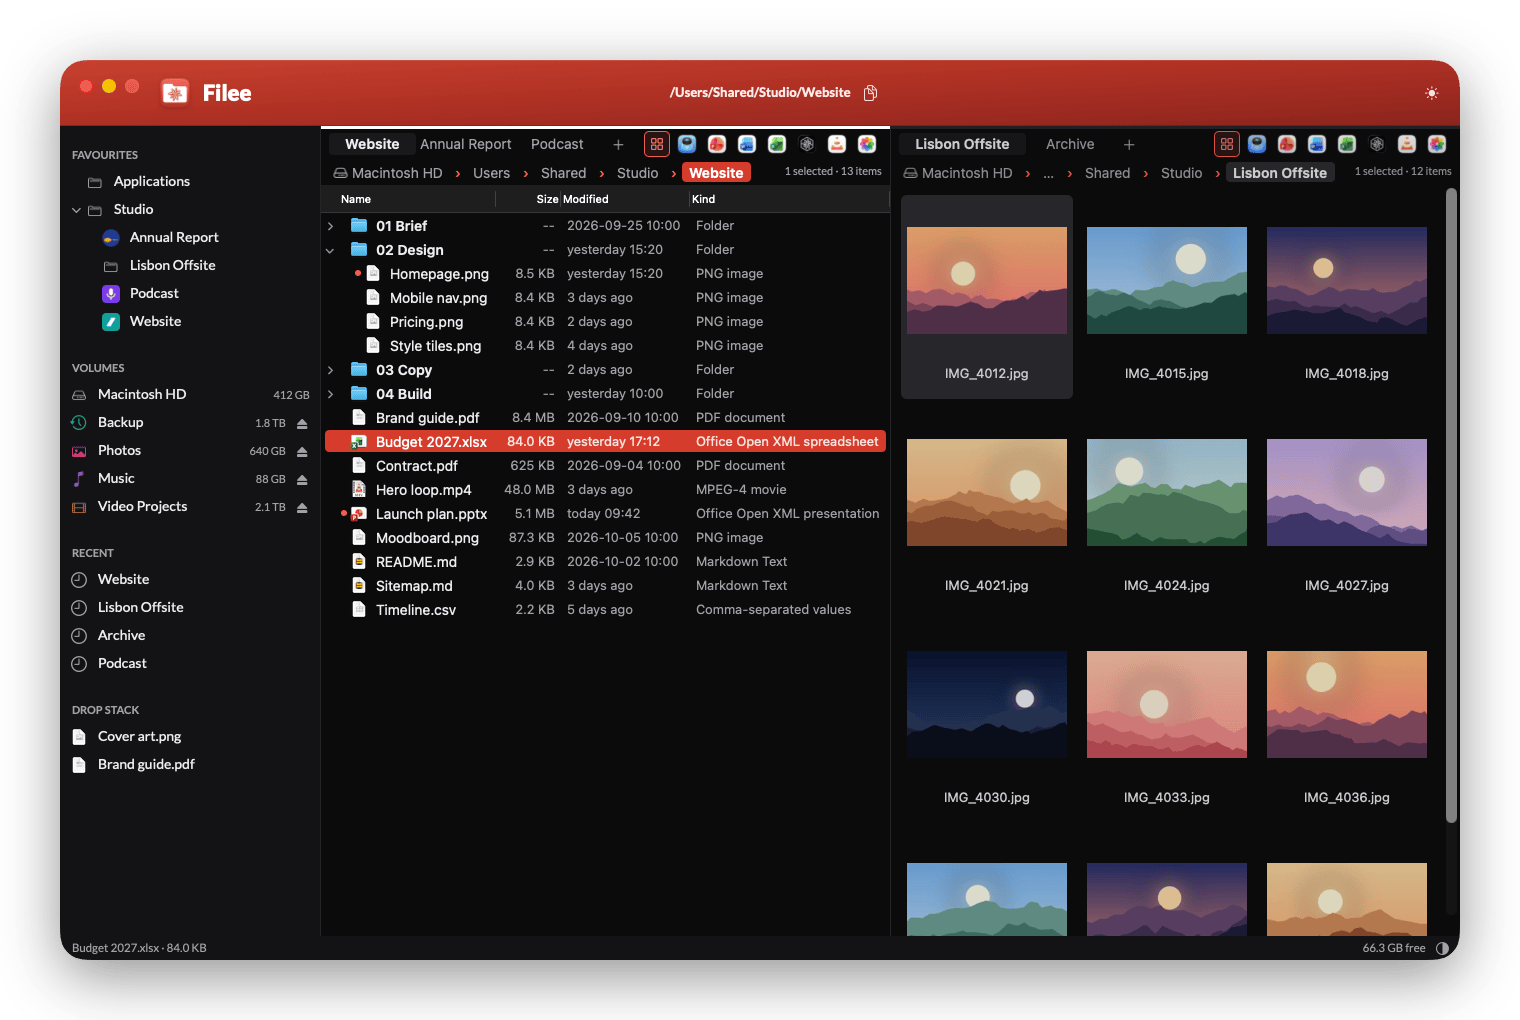
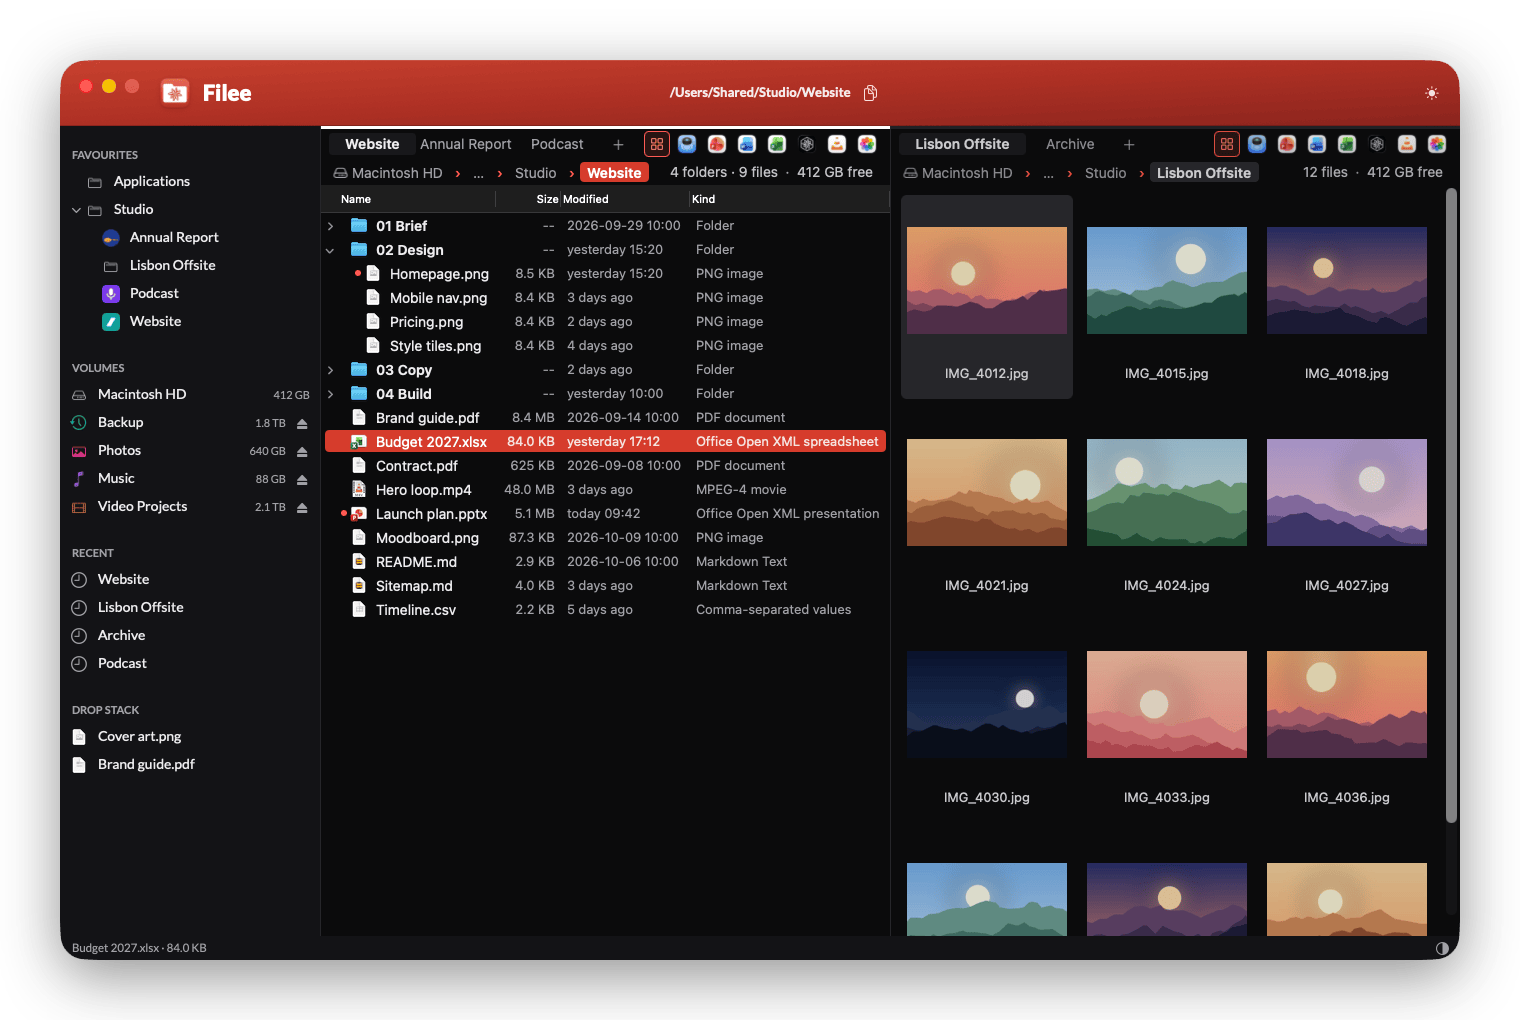
Each pane shows its folders, files and free space under its tabs
In the file list's font and size, right of the path: "16 folders · 63 files
· 9.7 TB free". Free space loads off the main thread per pane. The selection
stays in the status bar, which no longer shows free space.

Changed region(s): [[0.3092, 0.152, 0.5875, 0.1824], [0.7112, 0.152, 0.9586, 0.1824], [0.8967, 0.9118, 0.9276, 0.9422]]

diff --git a/FileeMac/Sources/Pane.swift b/FileeMac/Sources/Pane.swift
@@ -103,7 +103,14 @@ final class PaneController: NSObject, FileViewDelegate, NSTextFieldDelegate {
     let pathField = PathField()
     /// The path as clickable folders; the path field replaces it while a path is typed.
     let crumbs = PathCrumbs()
-    let countLabel = label("", size: 11, color: Theme.muted)
+    /// Under the tabs, right of the path: what the folder holds and the free space on its volume, in the file list's size.
+    let countLabel = label("", size: 11, color: Theme.fg2)
+    /// Folders and files in the listing, counted when it changes (not at each selection change).
+    private var contents = (folders: 0, files: 0)
+    private var freeText = ""
+    private var freeAsk = 0
+    /// Set by the README screenshots (QA demoVolumes): the free space every pane shows.
+    static var demoFreeSpace: String?
     // Type-to-filter shows what you type at the top of the pane: the query, a blinking caret, the count.
     let filterBar = ColorView(Theme.accentSoft)
     private let filterStripe = ColorView(Theme.accent)
@@ -193,11 +200,12 @@ final class PaneController: NSObject, FileViewDelegate, NSTextFieldDelegate {
         let typeW = typeBar.isHidden ? 0 : typeBar.width + 10
         typeBar.frame = NSRect(x: b.width - typeW, y: accentH, width: typeBar.width, height: tabH)
         tabStrip.frame = NSRect(x: 0, y: accentH, width: b.width - typeW, height: tabH)
-        let countW = min(160, textWidth(countLabel.stringValue, font: countLabel.font!) + 12)
+        let countW = min((b.width * 0.5).rounded(), ceil(countLabel.attributedStringValue.size().width) + 12)
+        let countH = ceil(Theme.listSize * 1.3)
         let fieldH = (Theme.listSize * 1.35).rounded()
         pathField.frame = NSRect(x: 10, y: accentH + tabH + ((pathH - fieldH) / 2).rounded(), width: b.width - countW - 20, height: fieldH)
         crumbs.frame = NSRect(x: 5, y: accentH + tabH + 2, width: b.width - countW - 15, height: pathH - 4)
-        countLabel.frame = NSRect(x: b.width - countW - 6, y: accentH + tabH + ((pathH - 16) / 2).rounded(), width: countW, height: 16)
+        countLabel.frame = NSRect(x: b.width - countW - 6, y: accentH + tabH + ((pathH - countH) / 2).rounded(), width: countW, height: countH)
         countLabel.alignment = .right
         let top = accentH + tabH + pathH
         let filterH: CGFloat = filterBar.isHidden ? 0 : 34
@@ -233,14 +241,48 @@ final class PaneController: NSObject, FileViewDelegate, NSTextFieldDelegate {
         crumbs.show(path: path, active: isActivePane)
     }
 
+    private func countContents() {
+        let folders = folderModel.visible.reduce(0) { $0 + ($1.isFolder ? 1 : 0) }
+        contents = (folders, folderModel.visible.count - folders)
+    }
+
     private func updateCount() {
         let m = folderModel
-        let selected = fileView?.selectedItems.count ?? 0
-        var text = m.query.isEmpty ? Format.items(m.unfilteredCount) : "\(m.visible.count) of \(m.unfilteredCount)"
-        if selected > 0 { text = "\(selected) selected · " + text }
-        if m.types != .all { text = "\(m.types.title) · " + text }
-        countLabel.stringValue = text
+        // The selection is in the status bar: this line leaves the path its room.
+        var parts: [String] = []
+        if m.types != .all { parts.append(m.types.title) }
+        if !m.query.isEmpty {
+            parts.append("\(m.visible.count) of \(m.unfilteredCount)")
+        } else if contents.folders + contents.files == 0 {
+            parts.append("0 items")
+        } else {
+            if contents.folders > 0 { parts.append(contents.folders == 1 ? "1 folder" : "\(contents.folders.formatted()) folders") }
+            if contents.files > 0 { parts.append(contents.files == 1 ? "1 file" : "\(contents.files.formatted()) files") }
+        }
+        let font = Theme.listFont()
+        let text = NSMutableAttributedString(string: parts.joined(separator: " · "), attributes: [.font: font, .foregroundColor: Theme.fg2])
+        if !freeText.isEmpty {
+            text.append(NSAttributedString(string: "  ·  ", attributes: [.font: font, .foregroundColor: Theme.muted]))
+            text.append(NSAttributedString(string: freeText, attributes: [.font: font, .foregroundColor: Theme.fg2]))
+        }
+        countLabel.attributedStringValue = text
         layout()
+    }
+
+    /// Free space on the folder's volume: slow on network shares (10 to 150 ms), so off the main thread.
+    private func updateFreeSpace() {
+        freeAsk += 1
+        let ask = freeAsk, url = URL(fileURLWithPath: path)
+        DispatchQueue.global(qos: .utility).async { [weak self] in
+            let free = url.volumeFreeSpace
+            DispatchQueue.main.async {
+                guard let self, ask == self.freeAsk else { return }
+                let text = Self.demoFreeSpace.map { "\($0) free" } ?? free.map { "\(Format.size($0)) free" } ?? ""
+                guard text != self.freeText else { return }
+                self.freeText = text
+                self.updateCount()
+            }
+        }
     }
 
     /// Shows only 1 family of files in this tab (folders stay), or everything again.
@@ -321,7 +363,9 @@ final class PaneController: NSObject, FileViewDelegate, NSTextFieldDelegate {
         model.startWatching()
         updatePathLabel()
         tabStrip.titles = tabs.map { $0.folder.name }
+        countContents()
         updateCount()
+        updateFreeSpace()
     }
 
     private var pendingSelection: [String] = []
@@ -349,7 +393,9 @@ final class PaneController: NSObject, FileViewDelegate, NSTextFieldDelegate {
             messageLabel.isHidden = true
         }
         updateFilterBar()
+        countContents()
         updateCount()
+        if reloaded { updateFreeSpace() }
         window.paneContentChanged(self)
         Profile.mark("pane rest", t)
     }
@@ -506,7 +552,7 @@ final class PaneController: NSObject, FileViewDelegate, NSTextFieldDelegate {
         // The tab names, the path and the type filter follow the file list's size.
         tabStrip.active = tabStrip.active
         typeBar.styleChanged()
-        layout()
+        updateCount()
     }
 
     var selectedItems: [FileItem] { fileView.selectedItems }
@@ -686,7 +732,6 @@ final class PaneController: NSObject, FileViewDelegate, NSTextFieldDelegate {
     func fileView(open item: FileItem) { open(item) }
 
     func fileViewSelectionChanged() {
-        updateCount()
         window.selectionChanged(in: self)
     }
 

diff --git a/FileeMac/Sources/BrowserWindow.swift b/FileeMac/Sources/BrowserWindow.swift
@@ -18,19 +18,17 @@ final class RootView: FlippedView {
     }
 }
 
-/// The status bar: selection and free space. Messages are in Toast, copy and move progress in TransferPanel.
+/// The status bar: the selection. Each pane shows its free space under its tabs. Messages are in Toast, copy and move progress in TransferPanel.
 final class StatusBar: FlippedView {
     let left = label("", size: 11.5, color: Theme.muted)
-    let right = label("", size: 11.5, color: Theme.muted)
     let themeButton = iconButton("circle.lefthalf.filled", tip: "Switch light or dark theme (⌃⌘L)", target: nil, action: #selector(BrowserWindowController.toggleThemeClicked(_:)))
 
     override init(frame: NSRect) {
         super.init(frame: frame)
         wantsLayer = true
         layer?.backgroundColor = Theme.surface.cgColor
-        right.alignment = .right
         left.lineBreakMode = .byTruncatingTail
-        for v in [left, right, themeButton] { addSubview(v) }
+        for v in [left, themeButton] { addSubview(v) }
     }
 
     required init?(coder: NSCoder) { fatalError() }
@@ -42,9 +40,8 @@ final class StatusBar: FlippedView {
     override func layout() {
         super.layout()
         let w = bounds.width, h = bounds.height
-        left.frame = NSRect(x: 10, y: (h - 15) / 2, width: w * 0.6, height: 15)
+        left.frame = NSRect(x: 10, y: (h - 15) / 2, width: w - 46, height: 15)
         themeButton.frame = NSRect(x: w - 26, y: (h - 16) / 2, width: 16, height: 16)
-        right.frame = NSRect(x: w * 0.72 - 10, y: (h - 15) / 2, width: w * 0.28 - 22, height: 15)
     }
 }
 
@@ -239,16 +236,6 @@ final class BrowserWindowController: NSWindowController, NSWindowDelegate {
         titleBar.path.stringValue = activePane.folderModel.displayPath
         titleBar.needsLayout = true
         window?.representedURL = URL(fileURLWithPath: activePane.path)
-        updateFreeSpace()
-    }
-
-    /// Free space is slow to ask for (10 ms or more): off the main thread.
-    private func updateFreeSpace() {
-        let url = URL(fileURLWithPath: activePane.path)
-        DispatchQueue.global(qos: .utility).async { [weak self] in
-            let free = url.volumeFreeSpace
-            DispatchQueue.main.async { self?.statusBar.right.stringValue = free.map { "\(Format.size($0)) free" } ?? "" }
-        }
     }
 
     func selectionChanged(in pane: PaneController) {

diff --git a/FileeMac/Sources/QAHarness.swift b/FileeMac/Sources/QAHarness.swift
@@ -303,6 +303,9 @@ final class QAHarness {
                         info: SidebarController.VolumeInfo(name: name, free: v["free"] as? String ?? "", isLocal: v["local"] as? Bool ?? true,
                                                  isInternal: v["internal"] as? Bool ?? false))
             }
+            // The panes show the startup volume's made-up free space, not this Mac's.
+            PaneController.demoFreeSpace = list.first { $0["path"] as? String == "/" }?["free"] as? String
+            for p in wc.panes { p.reload() }
             record(step)
             done()
 
@@ -441,7 +444,7 @@ final class QAHarness {
         }
         return ["widths": widths, "path": p.path, "selected": names(p.selectedItems), "visible": p.folderModel.visible.count,
                 "query": p.folderModel.query, "view": p.tab.view.rawValue, "activePane": wc.activePaneIndex,
-                "dual": wc.dualPane, "tabs": p.tabs.count, "status": wc.toast.text,
+                "dual": wc.dualPane, "tabs": p.tabs.count, "count": p.countLabel.stringValue, "status": wc.toast.text,
                 "favourites": wc.sidebar.favouritesOutline]
     }
 
@@ -504,6 +507,7 @@ final class QAHarness {
             ok = ok && (fits || tight)
         }
         if let s = step["statusContains"] as? String { ok = ok && wc.toast.text.contains(s) }
+        if let s = step["countContains"] as? [String] { ok = ok && s.allSatisfy { p.countLabel.stringValue.contains($0) } }
         if let s = step["stack"] as? Int { ok = ok && AppDelegate.shared.state.dropStack.count == s }
         if let n = step["transferRows"] as? Int { ok = ok && wc.transfers.rows.count == n && (n == 0 || wc.transfers.frame.height > 50) }
         if step["ejectButtons"] as? Bool == true {

diff --git a/qa.py b/qa.py
@@ -137,6 +137,9 @@ def suites(fx: dict) -> dict:
             {"op": "key", "keys": "cmd+h"},
             {"op": "expect", "label": "cmd+h goes to the home folder", "path": "~"},
             {"op": "navigate", "pane": 0, "path": A},
+            {"op": "wait", "ms": 300},
+            {"op": "expect", "label": "under the tabs: the folder's folders and files, and the volume's free space",
+             "countContains": ["1 folder · 7 files", " free"]},
             {"op": "expect", "label": "a folder with a .filee-icon.svg shows that image", "customIcon": branded},
             {"op": "expect", "label": "name column fits the longest name", "nameFits": True},
             {"op": "screenshot", "name": "01-list"},

diff --git a/SPEC.md b/SPEC.md
@@ -108,8 +108,9 @@ Switch-over (decision 42): Filee runs next to Path Finder. Path Finder is cancel
 - Each pane has its own tabs, path bar, view and history.
 - **Active pane** (decision 11): a 3 px red accent bar across the top of the active pane, and its path in bold. The inactive pane is dimmed to 85%. Tab switches the active pane.
 - **Path bar** (decision 13): the folder path as clickable folders, from the home folder down (outside home: from the volume or Macintosh HD). It uses the file list's font and size, as the tab names do, and grows with ⌘+. The current folder is highlighted like a selected row (red in the active pane, grey in the other) and red arrows separate the folders. A click on a folder goes there and selects the folder you came from. A drop on a folder moves or copies into it (Finder's rules: move on the same volume, copy across volumes, ⌥ copies). Folders that don't fit fold into `…`, a menu. 1 view draws the whole path: no disk access, a new layout only when the path or the width changes (under 1 ms). A click on the current folder or the free space after it, ⌘L or ⌃G makes it editable with all of it selected, ready for a paste, with Tab completion. Enter goes there; a file path goes to its folder and selects the file. A pasted path can carry quotes, `file://` or shell escapes. The copy button right of the folder in the title bar copies the active pane's full path (from `/`).
-- **File-type filter**: right of each pane's tabs, All, then 1 button per family: PDF, PowerPoint, Word, Excel (with CSV), Markdown, video, images. Each button shows the icon of the app that opens the family on this Mac (Word, Excel, Notee); when 2 families share an app (PDF and images in Preview), the later one takes an installed fallback (Photos), so no 2 buttons look the same. A click shows only that family in the active tab, a 2nd click (or All) shows everything again. Folders always show. The filter stays with the tab from folder to folder, applies to every view and to expanded folders in the list, and shows in the item count ("PDF · 3 items"). New tabs and launches start with All. Also in **View** and ⌘K ("Show Only PDF Files"). Hidden in a pane narrower than 420 px.
-- **Status bar**: selection count and size, free space on the volume.
+- **File-type filter**: right of each pane's tabs, All, then 1 button per family: PDF, PowerPoint, Word, Excel (with CSV), Markdown, video, images. Each button shows the icon of the app that opens the family on this Mac (Word, Excel, Notee); when 2 families share an app (PDF and images in Preview), the later one takes an installed fallback (Photos), so no 2 buttons look the same. A click shows only that family in the active tab, a 2nd click (or All) shows everything again. Folders always show. The filter stays with the tab from folder to folder, applies to every view and to expanded folders in the list, and shows in the pane's count ("PDF · 2 folders · 3 files"). New tabs and launches start with All. Also in **View** and ⌘K ("Show Only PDF Files"). Hidden in a pane narrower than 420 px.
+- **Pane count** (Nic, 18th October 2026): right of the path, under each pane's tabs, in the file list's font and size: the folders and files in the listing, then the free space on the folder's volume ("16 folders · 63 files · 9.7 TB free"). While a filter runs: "5 of 79". The free space loads off the main thread at each folder change and disk change. The selection stays out of it, so the path keeps its room.
+- **Status bar**: the selection (name, or count) and its size.
 - **Messages** (copied path, moved to Trash, errors): a pill at the bottom centre of the window, in large type with inverted colours (black in light mode, white in dark mode, red for errors). A copied path shows in full on a second line. It goes after 2.5 s, errors after 6 s.
 - **Copy and move progress**: a panel above the status bar, 1 row per running copy or move: item `n of m` and its name, a red progress bar, bytes done of total, speed, time left, and a cancel button. The finished row turns green at 100% and goes after 2 s (5 s for an error).
 - **Look** (decision 14): NicAI Design. Black, white, red accent, Lato for the interface. Light and dark follow macOS until you switch: ⌃⌘L, the moon or sun button at the right of the title bar, the half-circle button at the right of the status bar, or **View > Switch Light or Dark Theme** pins the other theme; **View > Use System Theme** follows macOS again. The choice is kept in `state.json`. The bar over the active pane is red in light and white in dark.
@@ -276,7 +277,7 @@ Sidebar sections (decision 12):
   - A chevron folds and unfolds a favourite. The folded ones are kept in `state.json`.
   - A folder with a `.filee-icon.svg` or `.filee-icon.png` inside shows that image: the icon syncs with the folder (Dropbox, git). A folder named Dropbox shows the Dropbox logo (the app's icon). Another folder with its own Finder icon (a shared Dropbox folder) shows that icon. A grey branch keeps a logo in full colour. Folders under `/Volumes` keep the plain icon: network shares can be slow.
 - **Keyboard**: ⌥⌘F moves the keyboard to Favourites, ⇧⌥⌘F to Volumes (both in ⌘K and the Go menu). The row of the current folder is selected, else the first row. ↑↓ move, ←→ fold and unfold, ↩ opens the row in the active pane and gives the keyboard back, Esc or Tab goes back without opening.
-- **Volumes**: every mounted volume, with free space (none for network shares, which report 0) and an eject button on everything under `/Volumes`. ⌘E ejects the selected volume.
+- **Volumes**: every mounted volume, with free space (network shares report 0 for the usual value: Filee reads their plain free space) and an eject button on everything under `/Volumes`. ⌘E ejects the selected volume.
   - Each volume has its own icon: a word in its name picks the symbol (vid: film, mus: music note, scan, doc, backup, photo, personal), else its kind (network share, external, internal). Each gets its own colour, the same from launch to launch. `volumeIcons` in `settings.json` sets a symbol or an image file by volume name: `{"Omarchy": "terminal", "Sony": "~/.filee/icons/sony.png"}`. An image file also applies to every volume whose name contains the key ("Sony" matches "SONY ICD").
 - **Recent**: the last 10 folders visited.
 - **Drop stack**: a holding list. ⌃⌘D adds the selection. Drag items out, or use the palette: "Copy stack here", "Move stack here", "Clear stack". The stack survives a restart.

diff --git a/README.md b/README.md
@@ -57,6 +57,7 @@ This is personal software. It does what I need on my Mac. I don't offer support,
   - A list that expands folders in place as a tree (→ and ←, or ⌥⌘→ to expand every folder 1 level per press).
   - Miller columns, each column as wide as its content.
   - Thumbnails from 64 to 384 px. A folder that holds mostly images opens as thumbnails on the first visit.
+- **Folders, files and free space under each pane's tabs,** in the file list's size: "16 folders · 63 files · 9.7 TB free".
 - **Columns that fit their content** every time a folder loads. Name, size, modified and kind show by default. Date added, created, extension and item count are a right-click away.
 - **Readable dates:** "today 14:05", "yesterday", "3 days ago", then `2026-10-08 14:05`.
 - **New today:** a red dot marks every file added to its folder today. The dots reset at midnight.
@@ -76,7 +77,7 @@ This is personal software. It does what I need on my Mac. I don't offer support,
 <p align="center">
 <picture>
   <source media="(prefers-color-scheme: dark)" srcset="assets/screenshots/type-filter-zoom-dark.png">
-  <img src="assets/screenshots/type-filter-zoom-light.png" width="460" alt="Close-up of the file-type filter: the All button, then 1 button per file type with the icon of its app (Preview for PDF, PowerPoint, Word, Excel, a Markdown editor, VLC for video, Photos for images). PDF is selected, and the count under the buttons reads PDF, 1 selected, 6 items.">
+  <img src="assets/screenshots/type-filter-zoom-light.png" width="460" alt="Close-up of the file-type filter: the All button, then 1 button per file type with the icon of its app (Preview for PDF, PowerPoint, Word, Excel, a Markdown editor, VLC for video, Photos for images). PDF is selected, and the count under the buttons shows the PDF filter, the folders and files, and the free space.">
 </picture>
 </p>
 
